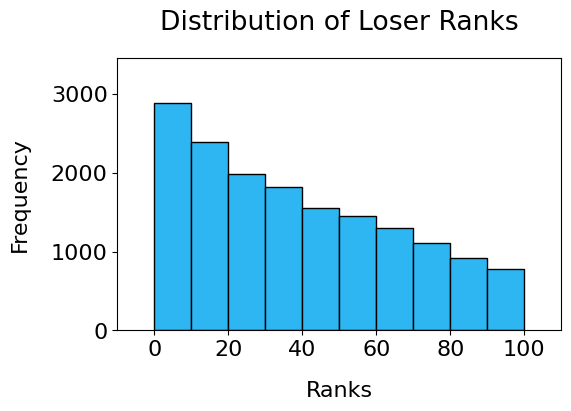
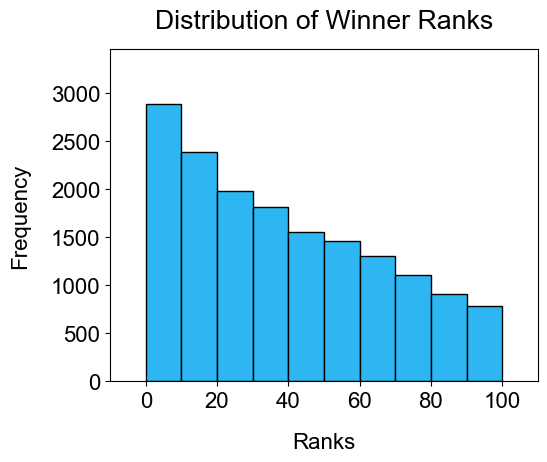
work on post

Changed region(s): [[0.0932, 0.0, 0.9945, 0.9927], [0.0, 0.3504, 0.0622, 0.6131]]

diff --git a/_posts/2023-08-04-Predict-Tennis.md b/_posts/2023-08-04-Predict-Tennis.md
@@ -17,16 +17,20 @@ What information would you need to predict the outcome of a tennis match? If you
 The  commentators may announce their ranks, or they may show up in a stats box before or during the match (the little numbers next to player names are tournament seeds, which are related, but different). You can also find player rankings very easily <a href="https://www.atptour.com/en/rankings/singles">here (Men's)</a> and <a href="https://www.atptour.com/en/rankings/singles">here (Women's)</a>.
 </p>
 
+<p>
+So, do higher ranked players win more often? 
+</p>
+
 <div style="display:flex;flex-direction:column;align-items:center;font-size: calc(10px + 0.5vw);justify-self: center;">
   <div style="margin-left: 2%;margin-right: 5%;text-align:justify;font-size:calc(12px + 0.5vw)">
     Figure 1. Distribution of ranks among match winners and losers.
   </div>
   <div style="display:flex;flex-direction:row;flex-wrap:wrap;justify-content:center;">
     <div style="background-color:white;margin:3px;border-radius:20px;width:49%;height:fit-content;min-width:300px;">
-      <img src="/images/tennis_ranks_los.png" width="47%" height=auto style="border-radius: 11px;width:90%">
+      <img src="/images/tennis_ranks_win.png" width="47%" height=auto style="border-radius: 11px;width:90%">
     </div>
     <div style="background-color:white;margin:3px;border-radius:20px;width:49%;height:fit-content;min-width:300px;">
-      <img src="/images/tennis_ranks_win.png" width="47%" height=auto style="border-radius: 11px;width:90%">
+      <img src="/images/tennis_ranks_los.png" width="47%" height=auto style="border-radius: 11px;width:90%">
     </div>
   </div>
 </div>
